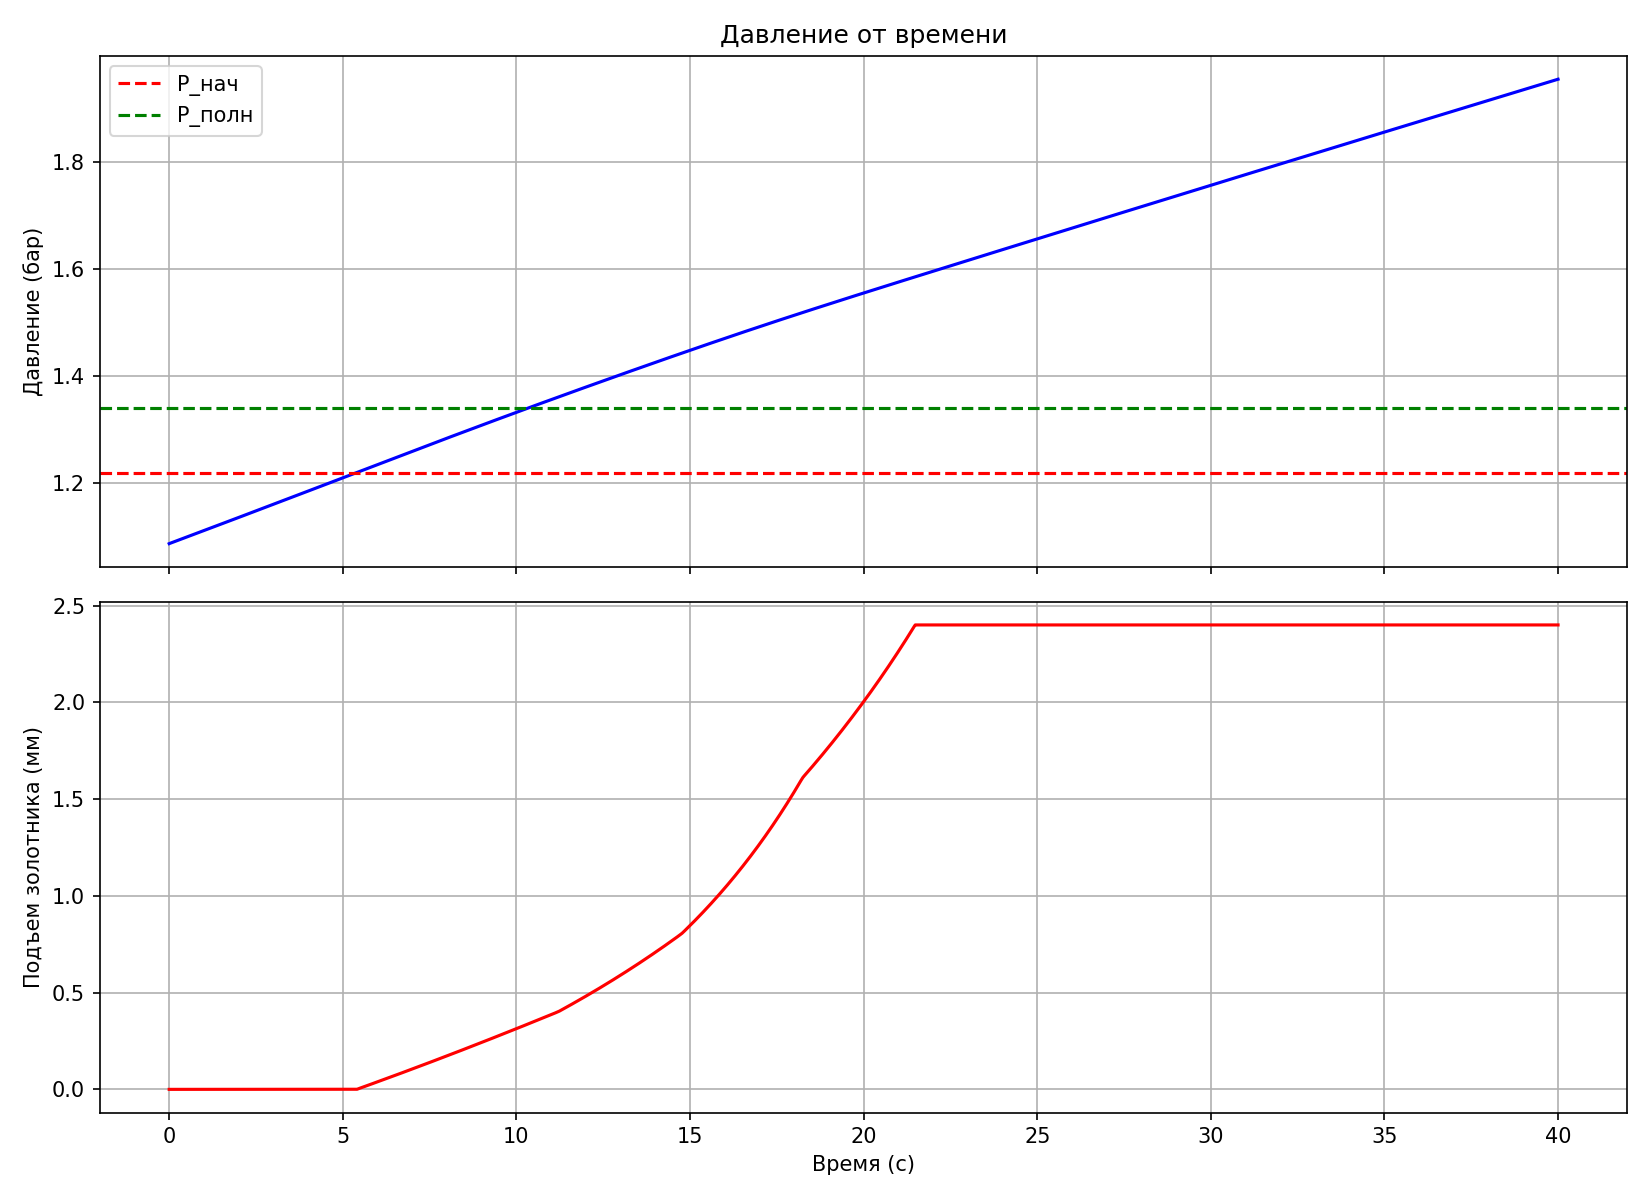
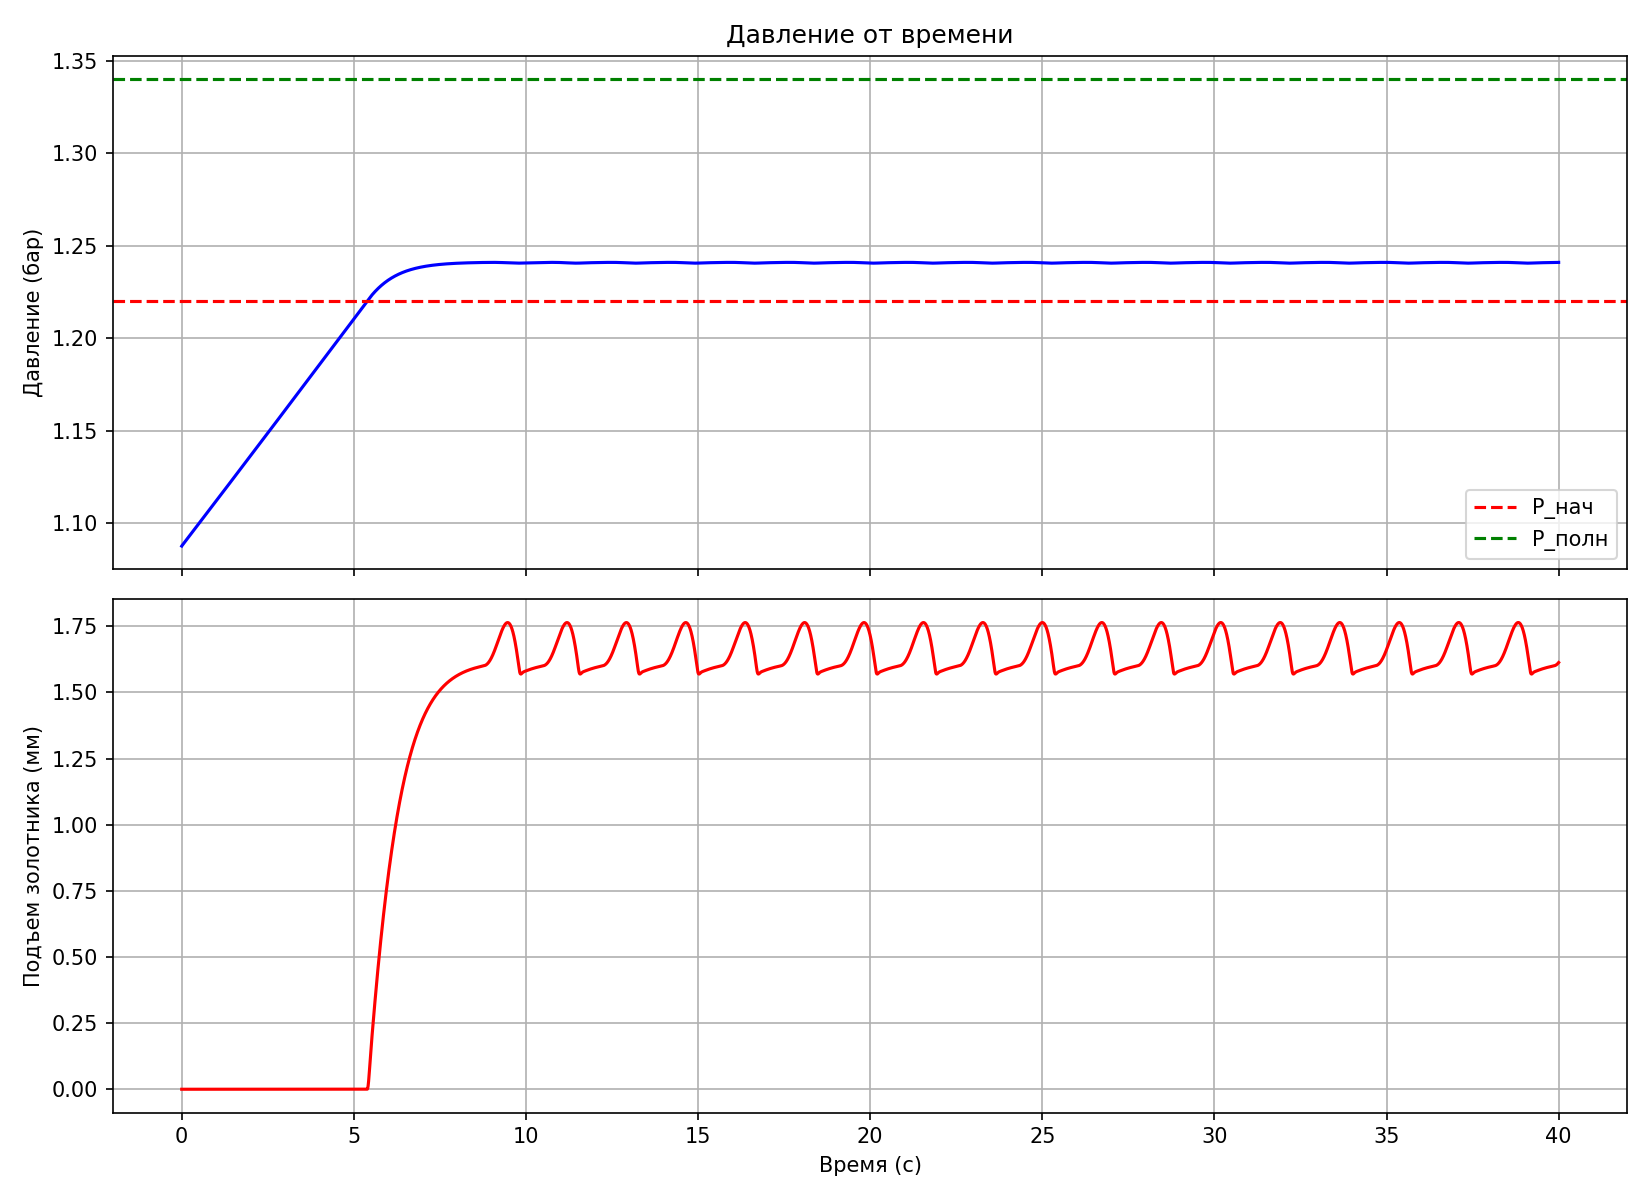
modified:   Another_PRessure_Radau.py 	modified:   Pressure_for_2_position_clapan.py 	modified:   ln2_valve_pop.png

diff --git a/Another_PRessure_Radau.py b/Another_PRessure_Radau.py
@@ -29,13 +29,13 @@ def G_valve(P, h, F_c, d_c, rho_g):
     return float(alpha_c(max(h/d_c, 0.0))) * F_c * eps * np.sqrt(2 * P * rho_g)
 
 # ================= Параметры системы =================
-V_total = 1.30; fill_fraction = 0.18; Q_dot = 30000.0 # Увеличен теплоприток для наглядности
+V_total = 1.30; fill_fraction = 0.18; Q_dot = 20000.0 # Увеличен теплоприток для наглядности
 t_end = 500.0
 
 # ================= НАСТРОЙКА ДАВЛЕНИЙ =================
-P_init = 7.0 * 1e5    # Начальное давление в резервуаре (5 бар)
-P_open = 8.0 * 1e5    # Давление открытия клапана (6 бар)
-P_full = 8.6 * 1e5    # Давление полного открытия (обычно +10% от P_open)
+P_init = 1.0 * 1e5    # Начальное давление в резервуаре (5 бар)
+P_open = 1.22 * 1e5    # Давление открытия клапана (6 бар)
+P_full = 1.34 * 1e5    # Давление полного открытия (обычно +10% от P_open)
 
 # ================= Клапан =================
 d_c = 0.032; F_c = np.pi*d_c**2/4
@@ -43,7 +43,7 @@ m = 0.5; eta = 30.0
 h_max = 0.25*d_c; h_stop = 0.30*d_c
 
 # Пружина должна быть более жесткой, чтобы сдерживать 6 бар на площади F_c
-c_spring = 1500.0 
+c_spring = 2200.0 
 # Преднатяг пружины автоматически рассчитывается так, чтобы клапан открылся ровно при P_open
 h_0 = (F_c*(P_open - P_atm)*rho_flow(0) - m*g)/c_spring
 

diff --git a/Pressure_for_2_position_clapan.py b/Pressure_for_2_position_clapan.py
@@ -63,7 +63,7 @@ V_total = 1.30; fill_fraction = 0.18; Q_dot = 20000.0
 t_end = 40.0; dt = 1e-3
 
 # ================= Клапан =================
-d_c = 0.008; F_c = np.pi*d_c**2/4
+d_c = 0.032; F_c = np.pi*d_c**2/4
 m = 0.5; eta = 30.0
 P_open = 1.22e5; P_full = 1.34e5
 h_max = 0.25*d_c; h_stop = 0.30*d_c
